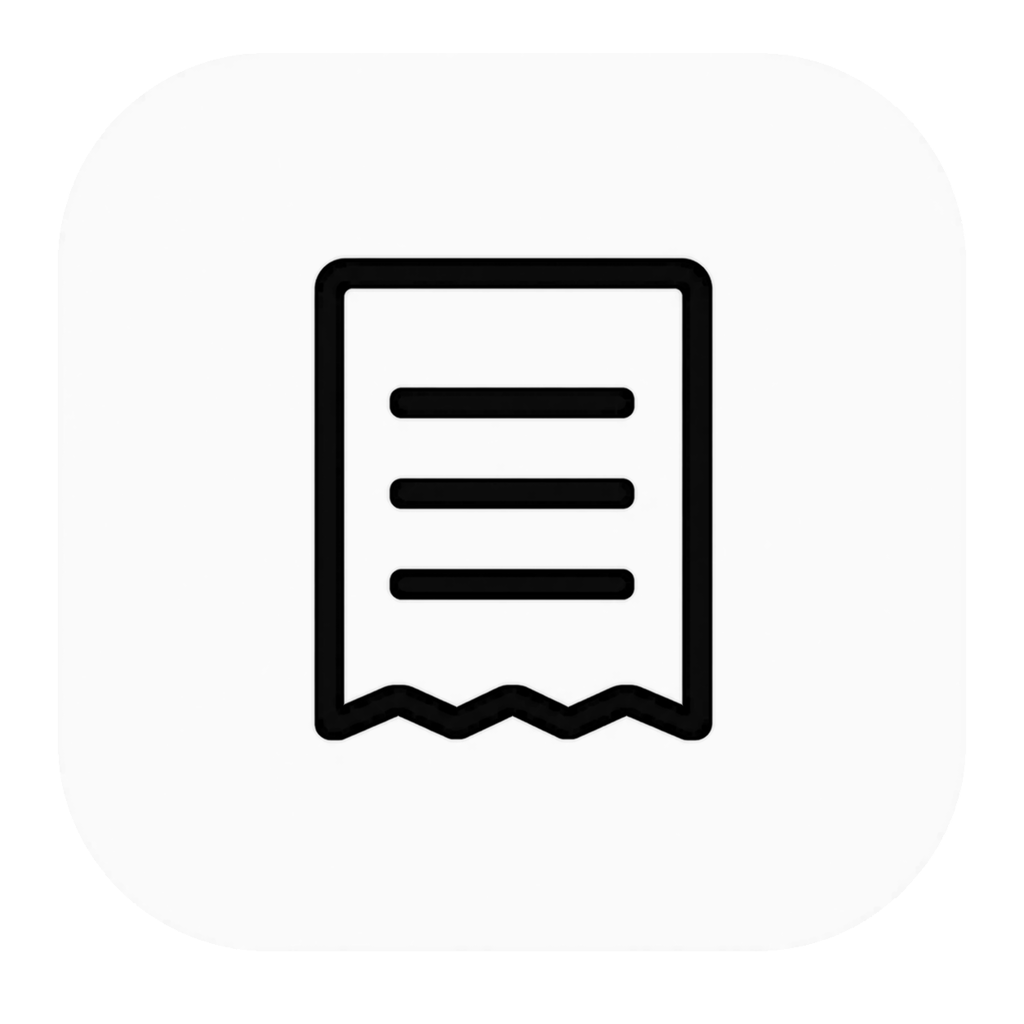
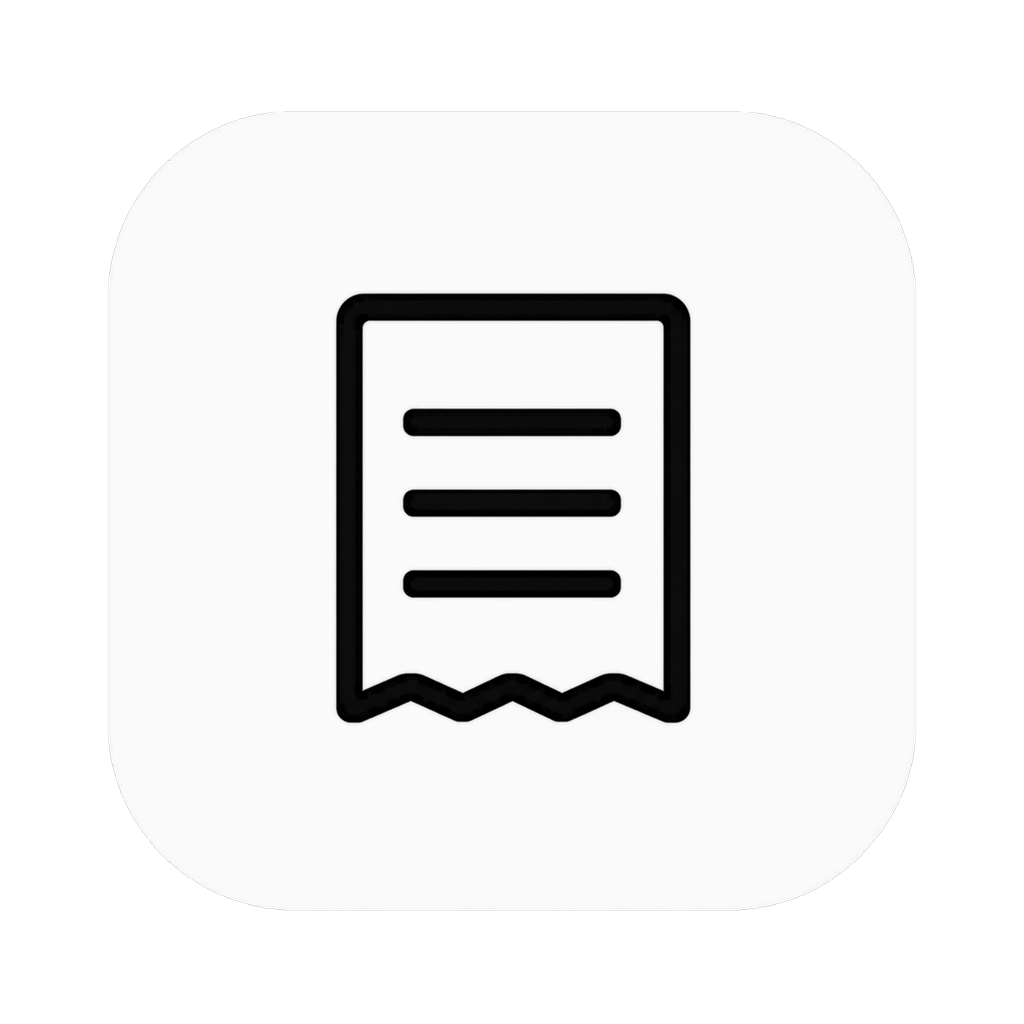
💰 Fixed issue # 完成搜索功能

Changed region(s): [[0.2812, 0.25, 0.7188, 0.75]]

diff --git a/src/renderer/components/SearchDialog.tsx b/src/renderer/components/SearchDialog.tsx
@@ -1,0 +1,84 @@
+import { Search, SearchX, X } from 'lucide-react';
+import { useEffect, useMemo, useRef, useState } from 'react';
+import { formatCny, formatOccurredAt, searchRecordsByKeyword } from '../../shared/billUtils';
+import type { BillRecord } from '../../shared/types';
+import { RecordIcon } from './RecordIcon';
+
+type SearchDialogProps = {
+  typeName: string;
+  records: BillRecord[];
+  suspended: boolean;
+  onClose: () => void;
+  onSelect: (record: BillRecord) => void;
+};
+
+// 标题关键词搜索只读当前类型的全部记录并实时过滤；点击结果后弹窗保持打开，编辑弹窗叠在上层。
+export function SearchDialog({ typeName, records, suspended, onClose, onSelect }: SearchDialogProps) {
+  const [keyword, setKeyword] = useState('');
+  const inputRef = useRef<HTMLInputElement>(null);
+  const trimmedKeyword = keyword.trim();
+  const results = useMemo(() => searchRecordsByKeyword(records, keyword), [records, keyword]);
+
+  // 上层编辑弹窗关闭后焦点回到搜索框，可以继续输入或直接点下一条结果。
+  useEffect(() => {
+    if (!suspended) inputRef.current?.focus();
+  }, [suspended]);
+
+  return (
+    <div className="dialog-backdrop no-drag" role="presentation">
+      <section className="dialog search-dialog" role="dialog" aria-modal="true" aria-labelledby="search-dialog-title">
+        <header className="dialog-header">
+          <h2 id="search-dialog-title">搜索“{typeName}”</h2>
+          <button className="icon-button" title="关闭" onClick={onClose}>
+            <X size={18} />
+          </button>
+        </header>
+        <div className="dialog-body form-stack">
+          <label className="field-row">
+            <Search size={18} />
+            <span>
+              <em>标题关键词</em>
+              <input
+                ref={inputRef}
+                autoFocus
+                value={keyword}
+                placeholder="输入账单标题中的文字"
+                onChange={(event) => setKeyword(event.target.value)}
+                onKeyDown={(event) => {
+                  // 中文输入法组词期间的 Enter/Esc 交给输入法处理，避免误触发选中或关闭。
+                  if (event.nativeEvent.isComposing) return;
+                  if (event.key === 'Escape') onClose();
+                  // Enter 直达第一条结果，和输入框的实时过滤形成完整键盘流。
+                  if (event.key === 'Enter' && results.length) onSelect(results[0]);
+                }}
+              />
+            </span>
+          </label>
+          <div className="search-results">
+            {results.map((record) => (
+              <button className="record-card search-result" key={record.id} title="编辑这笔账单" onClick={() => onSelect(record)}>
+                <div className="record-icon">
+                  <RecordIcon name={record.icon} typeId={record.typeId} />
+                </div>
+                <div className="record-main">
+                  <strong>{record.content}</strong>
+                  <time dateTime={record.occurredAt}>{formatOccurredAt(record.occurredAt)}</time>
+                </div>
+                <div className="record-side">
+                  <span className="record-amount">-{formatCny(record.amountCents)}</span>
+                </div>
+              </button>
+            ))}
+            {trimmedKeyword && !results.length && (
+              <div className="search-empty">
+                <SearchX size={20} />
+                <span>没有找到标题包含“{trimmedKeyword}”的账单</span>
+              </div>
+            )}
+            {!trimmedKeyword && <div className="search-empty">输入关键词，实时搜索该类型下的全部账单。</div>}
+          </div>
+        </div>
+      </section>
+    </div>
+  );
+}

diff --git a/src/renderer/styles.less b/src/renderer/styles.less
@@ -989,6 +989,11 @@ input:focus-visible {
   gap: 0;
   overflow-y: auto;
   padding: 6px 12px;
+  scrollbar-width: none;
+}
+
+.records-scroll::-webkit-scrollbar {
+  display: none;
 }
 
 .record-card {
@@ -1678,6 +1683,60 @@ input:focus-visible {
 .type-dialog .dialog-body {
   padding-top: 24px;
   padding-bottom: 24px;
+}
+
+.page-search {
+  margin-left: 8px;
+}
+
+.search-dialog {
+  display: flex;
+  max-height: 100%;
+  flex-direction: column;
+}
+
+.search-dialog .dialog-header {
+  flex: 0 0 auto;
+}
+
+.search-dialog .dialog-body {
+  min-height: 0;
+}
+
+.search-results {
+  min-height: 120px;
+  max-height: 320px;
+  overflow-y: auto;
+  overscroll-behavior: contain;
+  scrollbar-width: none;
+}
+
+.search-results::-webkit-scrollbar {
+  display: none;
+}
+
+.search-result {
+  width: 100%;
+  padding-right: 10px;
+  cursor: pointer;
+  text-align: left;
+}
+
+/* 搜索结果整行可点，不需要像账单列表那样在悬停时隐藏金额露出操作按钮。 */
+.record-card.search-result:hover .record-amount,
+.record-card.search-result:focus-within .record-amount {
+  opacity: 1;
+}
+
+.search-empty {
+  display: flex;
+  min-height: 120px;
+  flex-direction: column;
+  align-items: center;
+  justify-content: center;
+  gap: 8px;
+  color: var(--muted);
+  font-size: 12px;
 }
 
 .form-error {

diff --git a/src/shared/billUtils.test.ts b/src/shared/billUtils.test.ts
@@ -5,6 +5,7 @@ import {
   formatLocalDateTime,
   isValidLocalDateTime,
   parseAmountToCents,
+  searchRecordsByKeyword,
   summarizeAllTime,
   summarizeMonth,
   summarizeYear,
@@ -83,5 +84,24 @@ describe('支出聚合', () => {
   it('按日期和月份筛选并保持发生时间倒序', () => {
     expect(filterRecordsByPeriod(records, 2026, 6, '2026-07-01').map((record) => record.id)).toEqual(['b', 'a']);
     expect(filterRecordsByPeriod(records, 2026, 6, null).map((record) => record.id)).toEqual(['c', 'b', 'a']);
+  });
+});
+
+describe('标题搜索', () => {
+  const records = [
+    { ...createRecord('2026-07-01T10:25', 3500, 'a'), content: 'ChatGPT 订阅' },
+    { ...createRecord('2026-07-02T12:00', 4990, 'b'), content: 'Claude 订阅' },
+    { ...createRecord('2026-08-01T09:00', 2000, 'c'), content: 'chatgpt 充值' },
+  ];
+
+  it('忽略大小写和首尾空白匹配标题，结果保持时间倒序', () => {
+    expect(searchRecordsByKeyword(records, '  CHATGPT ').map((record) => record.id)).toEqual(['c', 'a']);
+    expect(searchRecordsByKeyword(records, '订阅').map((record) => record.id)).toEqual(['b', 'a']);
+  });
+
+  it('空白关键词不返回结果，也不匹配金额等其他字段', () => {
+    expect(searchRecordsByKeyword(records, '')).toEqual([]);
+    expect(searchRecordsByKeyword(records, '   ')).toEqual([]);
+    expect(searchRecordsByKeyword(records, '35')).toEqual([]);
   });
 });

diff --git a/src/renderer/App.tsx b/src/renderer/App.tsx
@@ -9,6 +9,7 @@ import {
   Plus,
   Receipt,
   ReceiptText,
+  Search,
   Settings,
   Tag,
   Trash2,
@@ -24,6 +25,7 @@ import type { ConfirmDialogState } from './components/ConfirmDialog';
 import { ExpenseChart, ExpenseWeeklyChart } from './components/ExpenseChart';
 import { RecordEditor } from './components/RecordEditor';
 import { ResizeHandles } from './components/ResizeHandles';
+import { SearchDialog } from './components/SearchDialog';
 import { SettingsDialog } from './components/SettingsDialog';
 import { ToggleStatCard } from './components/ToggleStatCard';
 import { TypeEditorDialog } from './components/TypeEditorDialog';
@@ -51,6 +53,7 @@ function App() {
   const [recordEditor, setRecordEditor] = useState<BillRecord | null | undefined>(undefined);
   const [typeEditor, setTypeEditor] = useState<BillType | null | undefined>(undefined);
   const [settingsOpen, setSettingsOpen] = useState(false);
+  const [searchOpen, setSearchOpen] = useState(false);
   const [confirmDialog, setConfirmDialog] = useState<ConfirmDialogState | null>(null);
   const [toast, setToast] = useState('');
   const [showTotalCount, setShowTotalCount] = useState(false);
@@ -354,6 +357,9 @@ function App() {
           <header className="topbar">
             <div className="page-title">
               <h1>{activeType.name}</h1>
+              <button className="icon-button page-search" title="搜索账单标题" onClick={() => setSearchOpen(true)}>
+                <Search size={16} />
+              </button>
             </div>
             <div className="topbar-actions no-drag">
               <div className="period-navigator">
@@ -427,6 +433,16 @@ function App() {
           </div>
         </section>
 
+        {/* 搜索弹窗在编辑弹窗之前渲染，点击结果后编辑弹窗叠在上层，关闭后回到原搜索结果。 */}
+        {searchOpen && (
+          <SearchDialog
+            typeName={activeType.name}
+            records={activeRecords}
+            suspended={recordEditor !== undefined}
+            onClose={() => setSearchOpen(false)}
+            onSelect={(record) => setRecordEditor(record)}
+          />
+        )}
         {recordEditor !== undefined && (
           <RecordEditor
             key={recordEditor?.id ?? `new-${activeType.id}`}

diff --git a/src/shared/billUtils.ts b/src/shared/billUtils.ts
@@ -70,6 +70,9 @@ export const formatCny = (amountCents: number): string => {
   return cnyFormatter.format(amountCents / 100);
 };
 
+// 账单列表和搜索结果统一把本地分钟字符串的分隔符替换为空格展示，不经过 Date 解析，避免时区偏移。
+export const formatOccurredAt = (value: string): string => value.replace('T', ' ');
+
 // 图表和日历空间有限，紧凑金额保留必要小数并用“万”缩写大额数字。
 export const formatCompactCny = (amountCents: number): string => {
   const yuan = amountCents / 100;
@@ -147,6 +150,13 @@ export const summarizeAllTime = (records: BillRecord[]): number => {
 export const filterRecordsByPeriod = (records: BillRecord[], year: number, monthIndex: number, selectedDate: string | null): BillRecord[] => {
   const prefix = selectedDate ?? `${getMonthKey(year, monthIndex)}-`;
   return sortRecordsNewestFirst(records.filter((record) => record.occurredAt.startsWith(prefix)));
+};
+
+// 标题关键词搜索忽略大小写和首尾空白，空关键词不返回任何结果，结果沿用时间倒序。
+export const searchRecordsByKeyword = (records: BillRecord[], keyword: string): BillRecord[] => {
+  const normalized = keyword.trim().toLowerCase();
+  if (!normalized) return [];
+  return sortRecordsNewestFirst(records.filter((record) => record.content.toLowerCase().includes(normalized)));
 };
 
 // 可见记录统一按发生时间倒序，时间相同时再用创建时间保证顺序稳定。

diff --git a/src/renderer/components/BillList.tsx b/src/renderer/components/BillList.tsx
@@ -1,5 +1,5 @@
 import { Pencil, Plus, ReceiptText, Trash2 } from 'lucide-react';
-import { formatCny } from '../../shared/billUtils';
+import { formatCny, formatOccurredAt } from '../../shared/billUtils';
 import type { BillRecord } from '../../shared/types';
 import { RecordIcon } from './RecordIcon';
 
@@ -9,9 +9,6 @@ type BillListProps = {
   onEdit: (record: BillRecord) => void;
   onDelete: (record: BillRecord) => void;
 };
-
-// 本地分钟字符串只替换分隔符展示，不经过 Date 解析，避免时区偏移。
-const formatOccurredAt = (value: string): string => value.replace('T', ' ');
 
 // 右侧账单列表只负责展示和派发操作，实际写入由 App 调用 preload 完成。
 export function BillList({ records, onAdd, onEdit, onDelete }: BillListProps) {

diff --git a/README.md b/README.md
@@ -13,8 +13,9 @@
 ## 功能
 
 - 默认提供“AI账单”和“药屋账单”，支持新增、重命名和删除类型。
-- 记录内容、人民币金额和精确到分钟的发生时间。
-- 月度日历、每日支出折线图和年度十二个月柱状图。
+- 记录内容、人民币金额和精确到分钟的发生时间，支持为每笔账单选择图标。
+- 顶栏搜索可按标题关键词实时查找当前类型的账单，点击结果直接编辑。
+- 月度日历、每日支出折线图和五周滚动支出柱状图。
 - 浅色/深色主题，以及本地 JSON 导入和导出。
 - 数据完全保存在本机，不需要账号或网络服务。
 